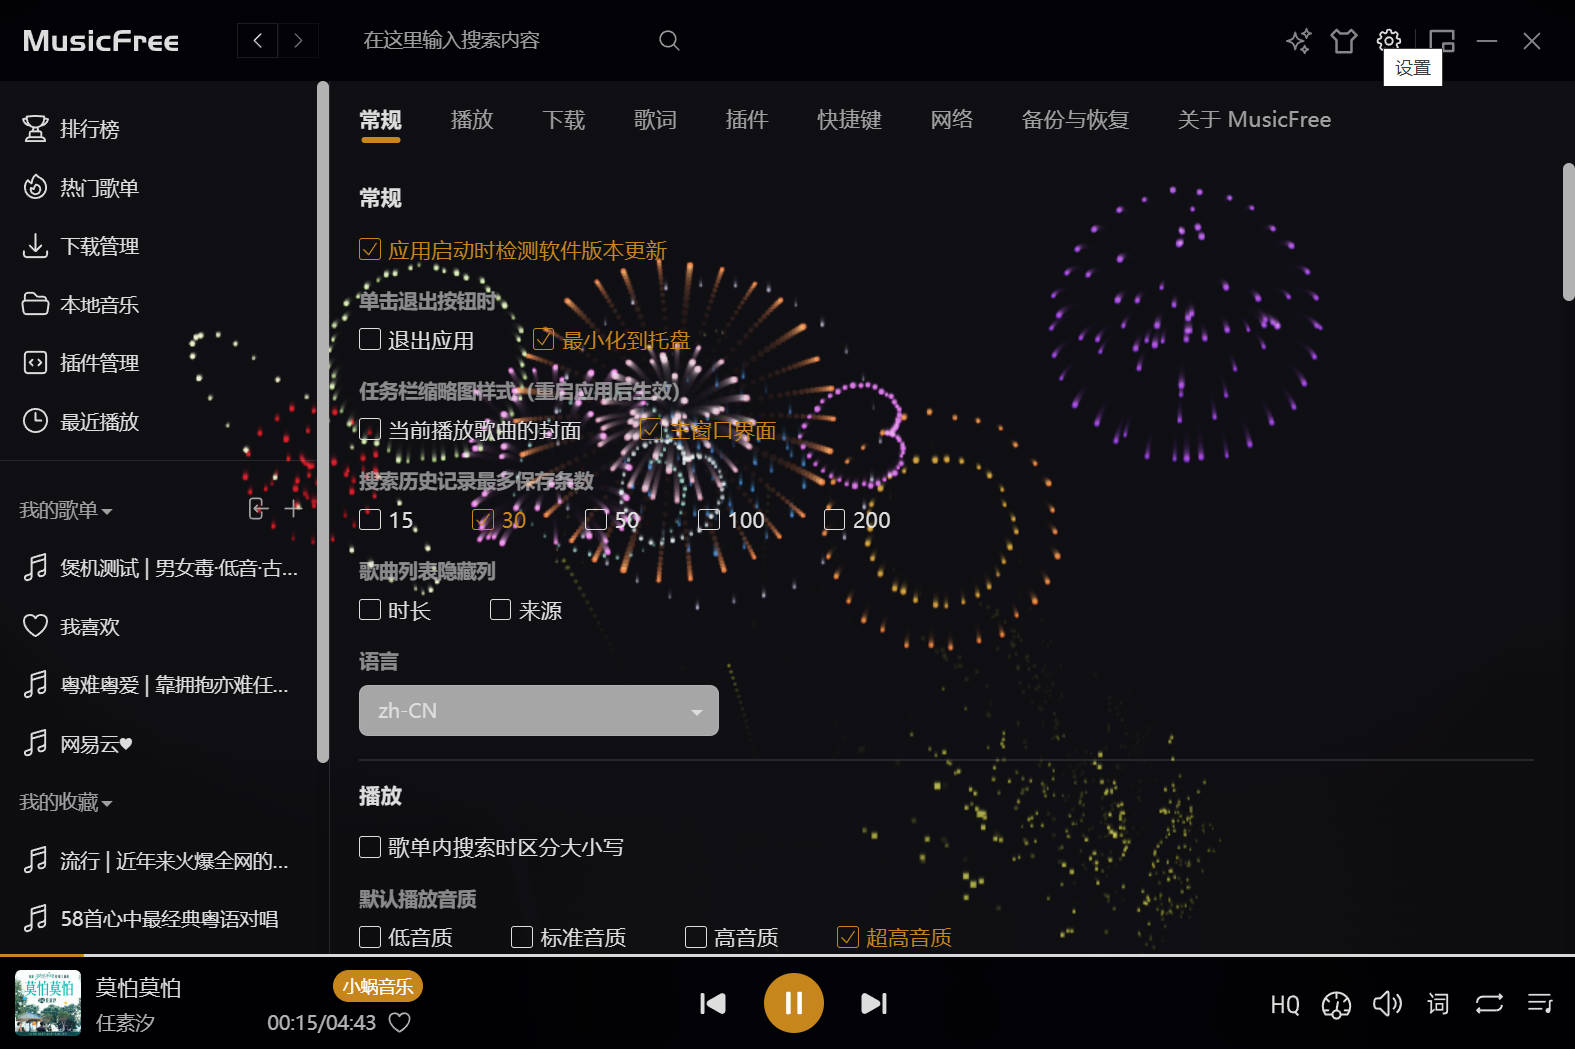
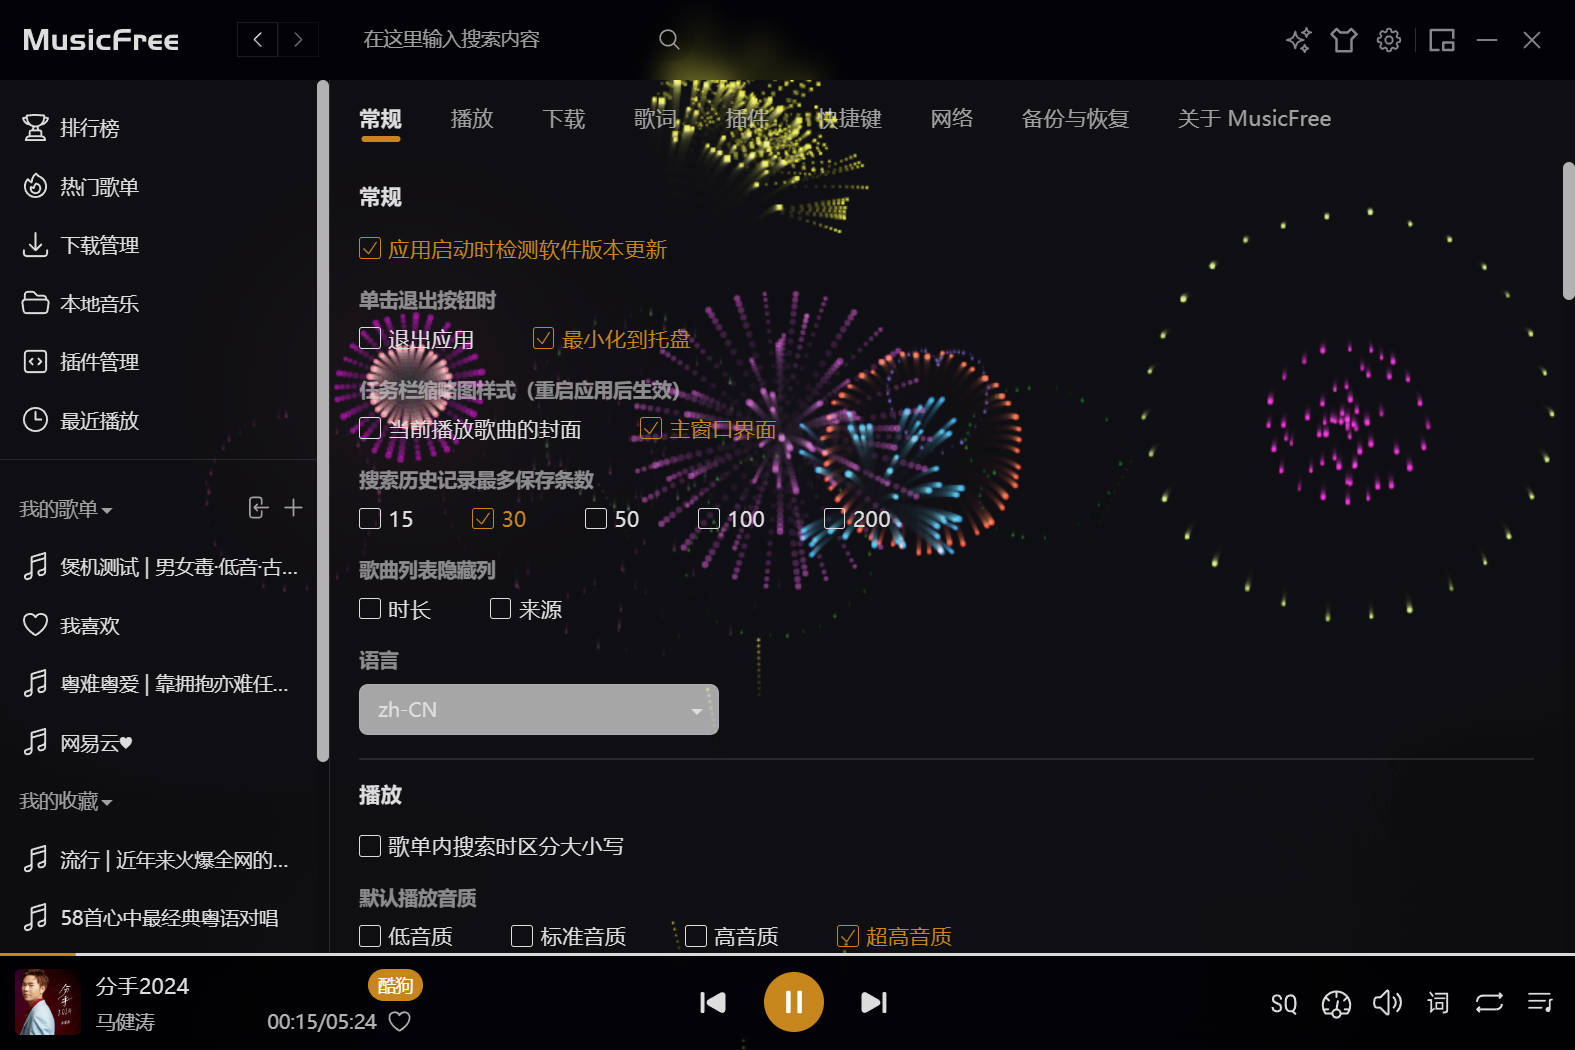
bugfix

diff --git a/fireworks/index.css b/fireworks/index.css
@@ -4,9 +4,9 @@
   --shadowColor: rgba(0, 0, 0, 0.3) !important;
   --dividerColor: rgba(255, 255, 255, 0.1) !important;
   --maskColor: rgba(33, 33, 33, 0.2) !important;
-  --backdropColor: #444 !important;
+  --backdropColor: #111 !important;
   --primaryColor: #c7861c !important;
-  --backgroundColor: #fff1f1 !important;
+  --backgroundColor: #111 !important;
   --headerTextColor: #ddd !important;
   --placeholderColor: #dededeba !important;
 

diff --git a/README.md b/README.md
@@ -36,6 +36,7 @@
 
 - 截图
   ![image](https://raw.githubusercontent.com/akFace/MusicFreeTheme/master/preview/love-dynamic.jpg)
+  ![image](https://raw.githubusercontent.com/akFace/MusicFreeTheme/master/preview/detail-love-dynamic.jpg)
 
   ***
 
@@ -43,3 +44,4 @@
 
 - 截图
   ![image](https://raw.githubusercontent.com/akFace/MusicFreeTheme/master/preview/fireworks.jpg)
+  ![image](https://raw.githubusercontent.com/akFace/MusicFreeTheme/master/preview/detail-fireworks.jpg)
